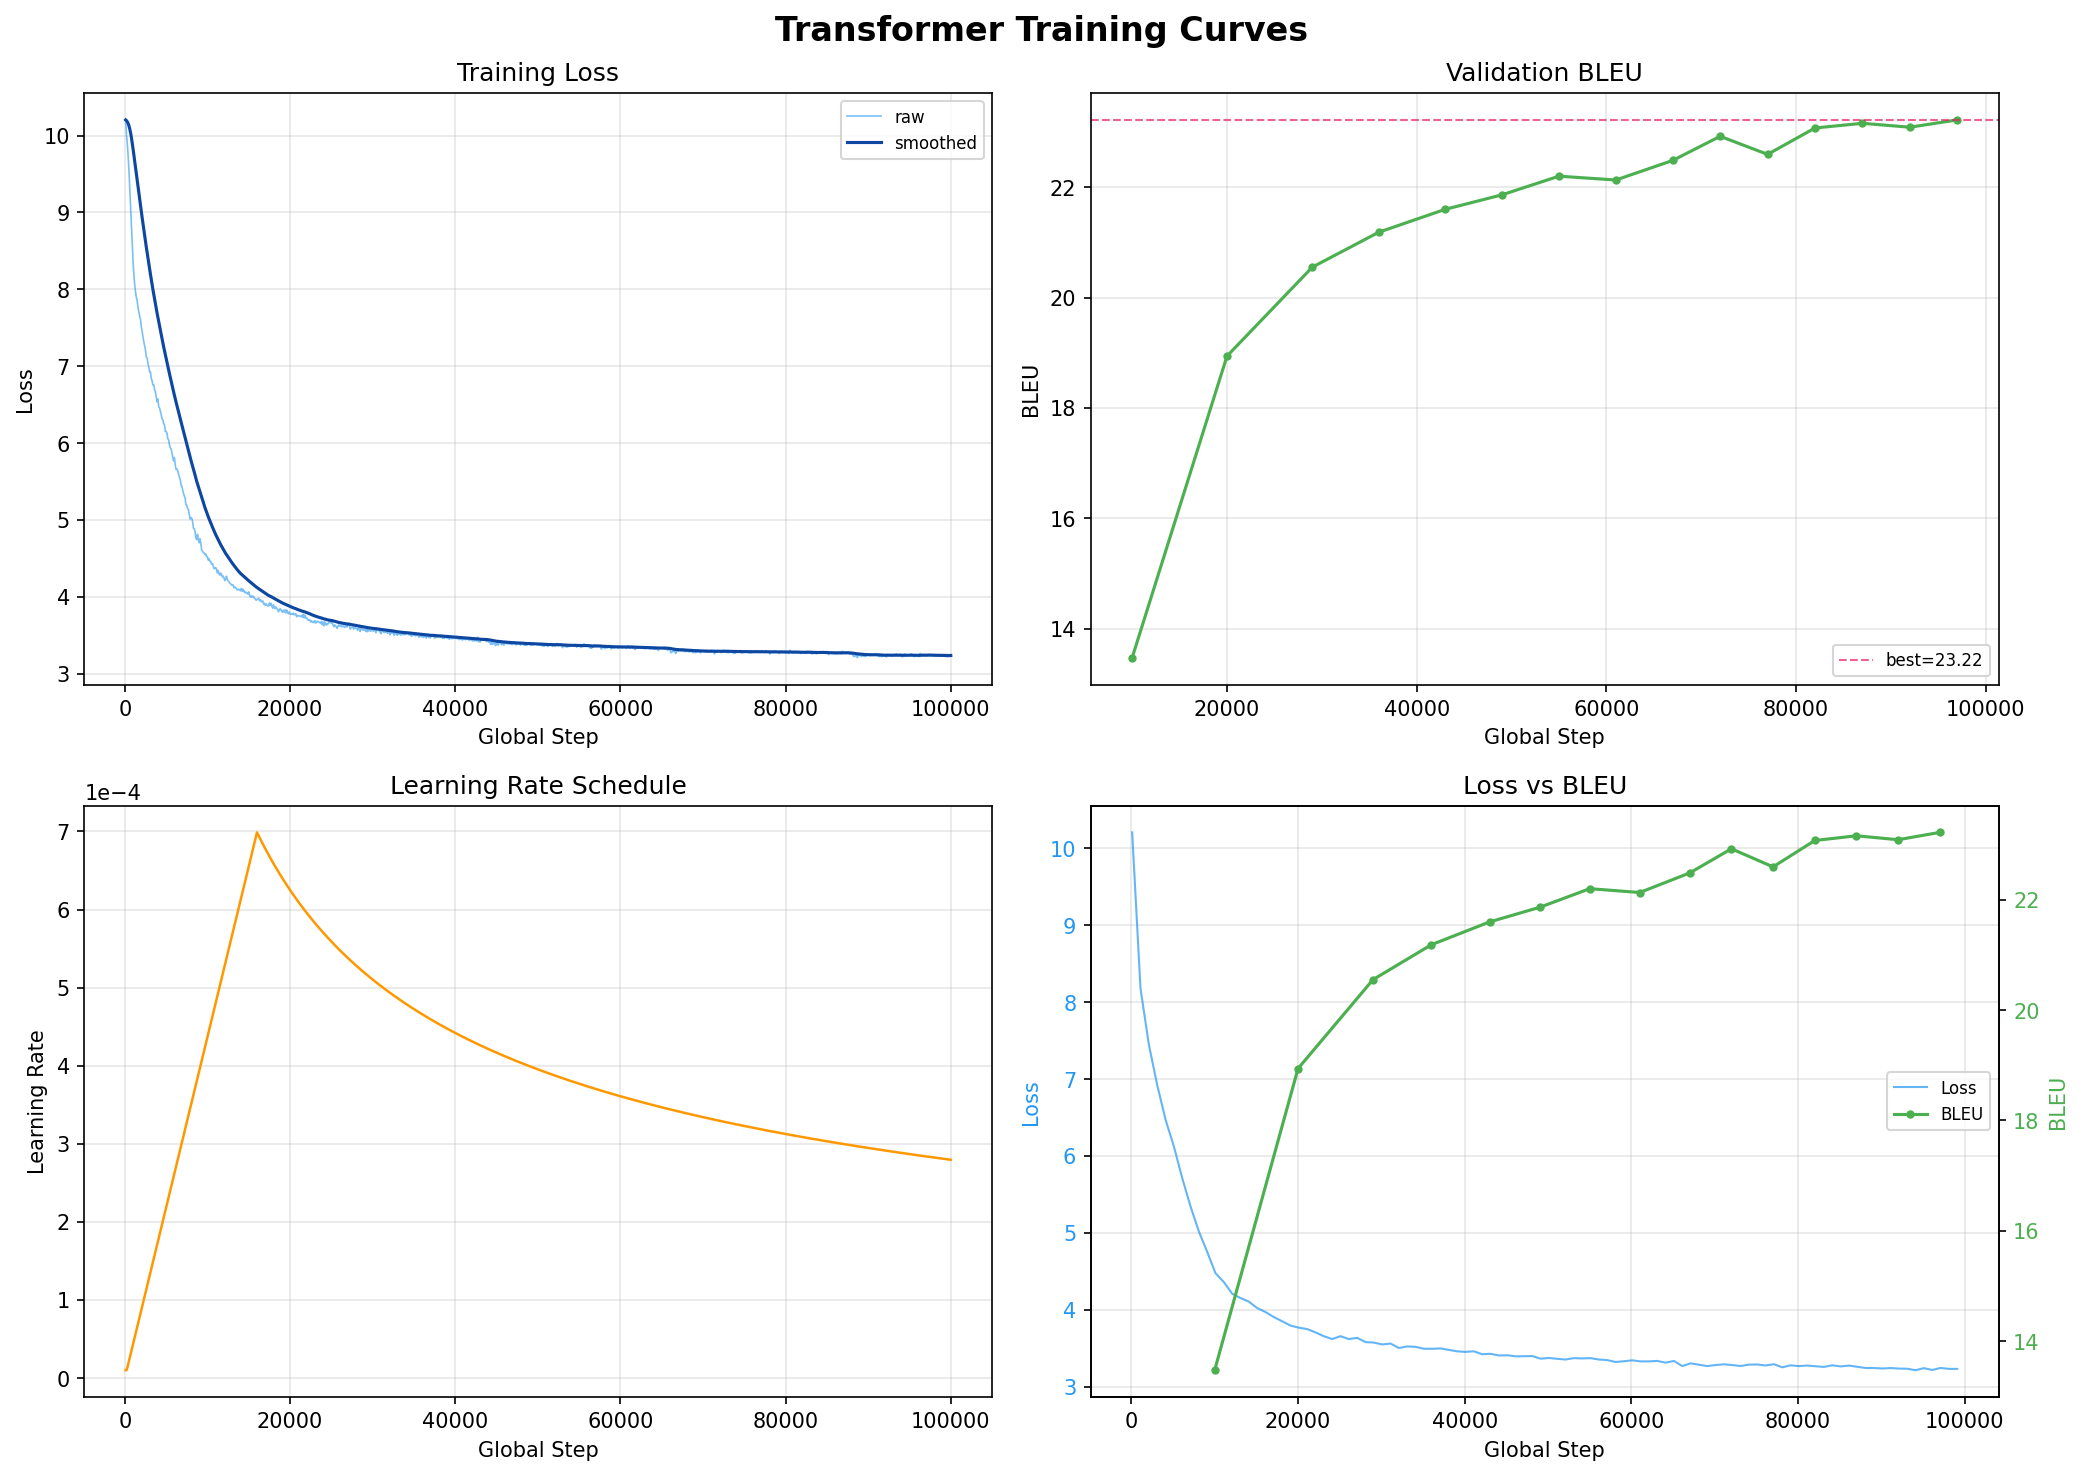
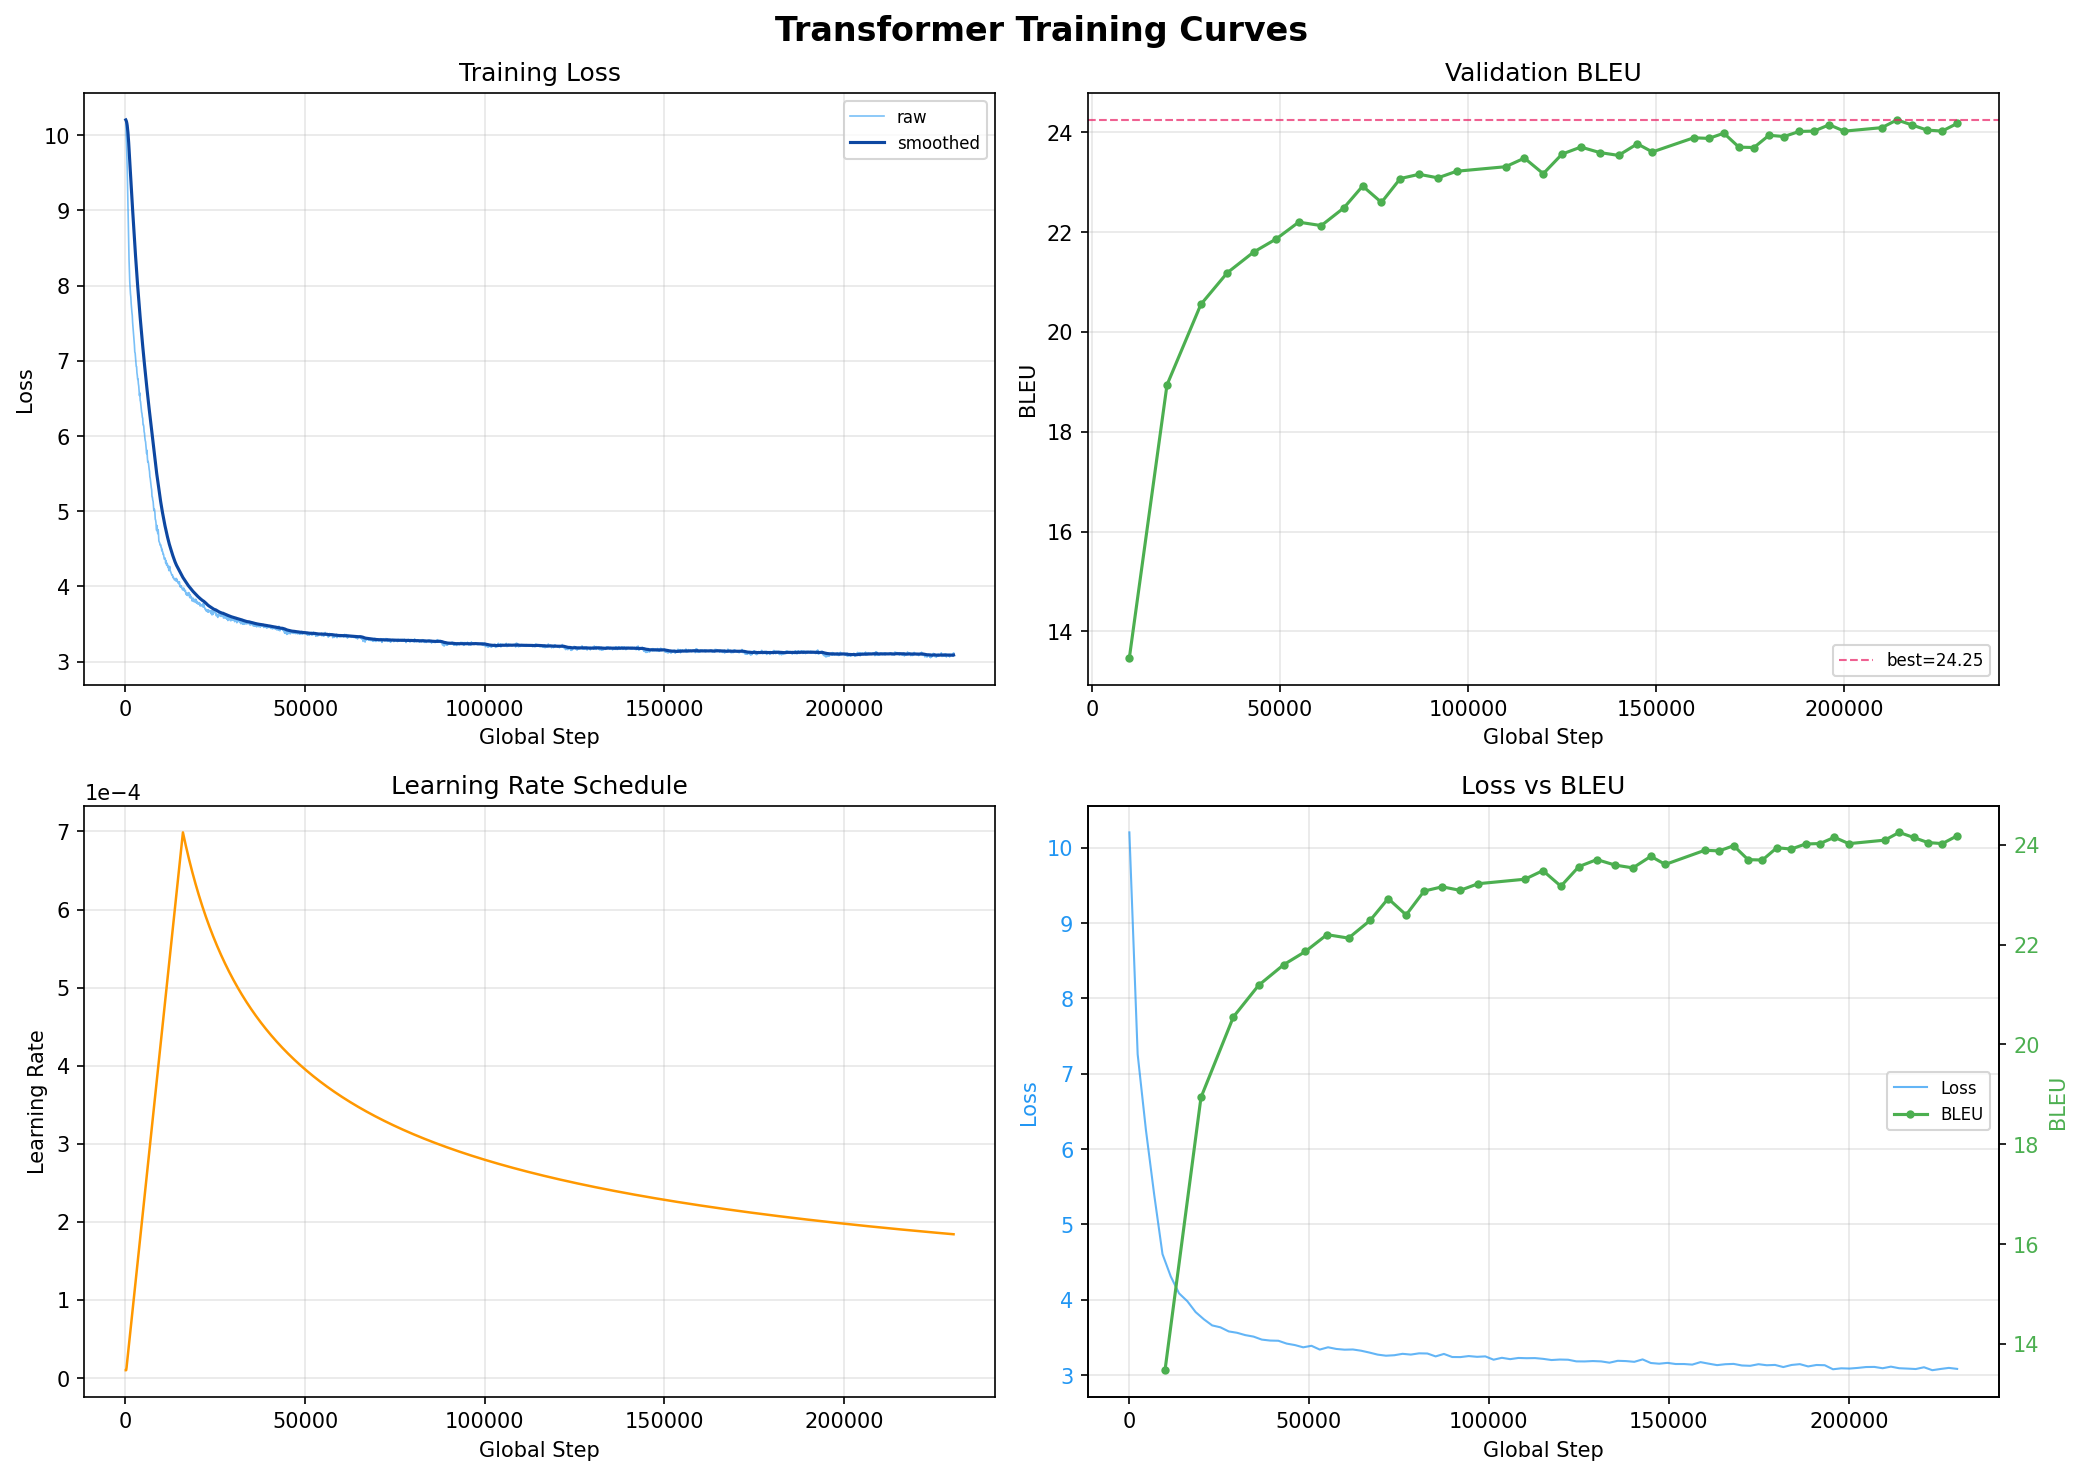
docs: refresh en-de final report stats and curve

diff --git a/README.md b/README.md
@@ -25,8 +25,8 @@ See *Success Case: Base on WMT14 en-fr* below.
 6. ⚠ Big on WMT14 en-fr (v2) — BLEU 33.03 test, 28.91 valid (halted at 416K of 800K,
    averaged); **below Base v2 on the same data** — 3.5× capacity actively hurts
    when the data is noisy.
-7. ✅ Base on WMT14 en-de — BLEU 24.35 valid / 24.04 test (avg-5, extended to 230K
-   with stop-on-plateau rule), matching the release threshold and closing en-de Base.
+7. ✅ Base on WMT14 en-de — BLEU 24.35 valid / 24.04 test (avg-5; best valid 24.25 @
+   214K, stopped at 230,523), matching the release threshold and closing en-de Base.
 
 Next: strict-filter en-fr v1 tokenizer-fix rerun (`character_coverage=1.0`),
 then WMT14 en-de Big, then final report.
@@ -291,7 +291,7 @@ python scripts/interactive_translate.py \
 | Big v1 (WMT14 en-fr, 10M)             | —         | 34.66     | ~6h on 5090   | 〰 tied Base v1 (tokenizer ceiling) |
 | Base v2 (WMT14 en-fr, 30M) avg-5      | 29.23     | 33.90     | 12h 45m on 5090 | ⚠ below v1 despite more data |
 | Big v2 (WMT14 en-fr, 30M) avg-5       | 28.91     | 33.03     | ~9h on 5090 (halted @ 416K/800K) | ⚠ below Base v2 — capacity hurts on noisy data |
-| Base (WMT14 en-de, 4.17M) avg-5       | 24.35     | 24.04     | single 5090, extended to 230K | ✅ reached en-de Base release threshold |
+| Base (WMT14 en-de, 4.17M) avg-5       | 24.35     | 24.04     | single 5090, 230,523 steps | ✅ reached en-de Base release threshold |
 | Base (WMT17 zh-en)                    | 0.77 (plateau) | — | ~1.5 days on 5090 | ❌ mode collapse |
 | Big (WMT17 zh-en)                     | 0.47 (plateau) | — | ~1 day on 5090 (halted) | ❌ mode collapse |
 
